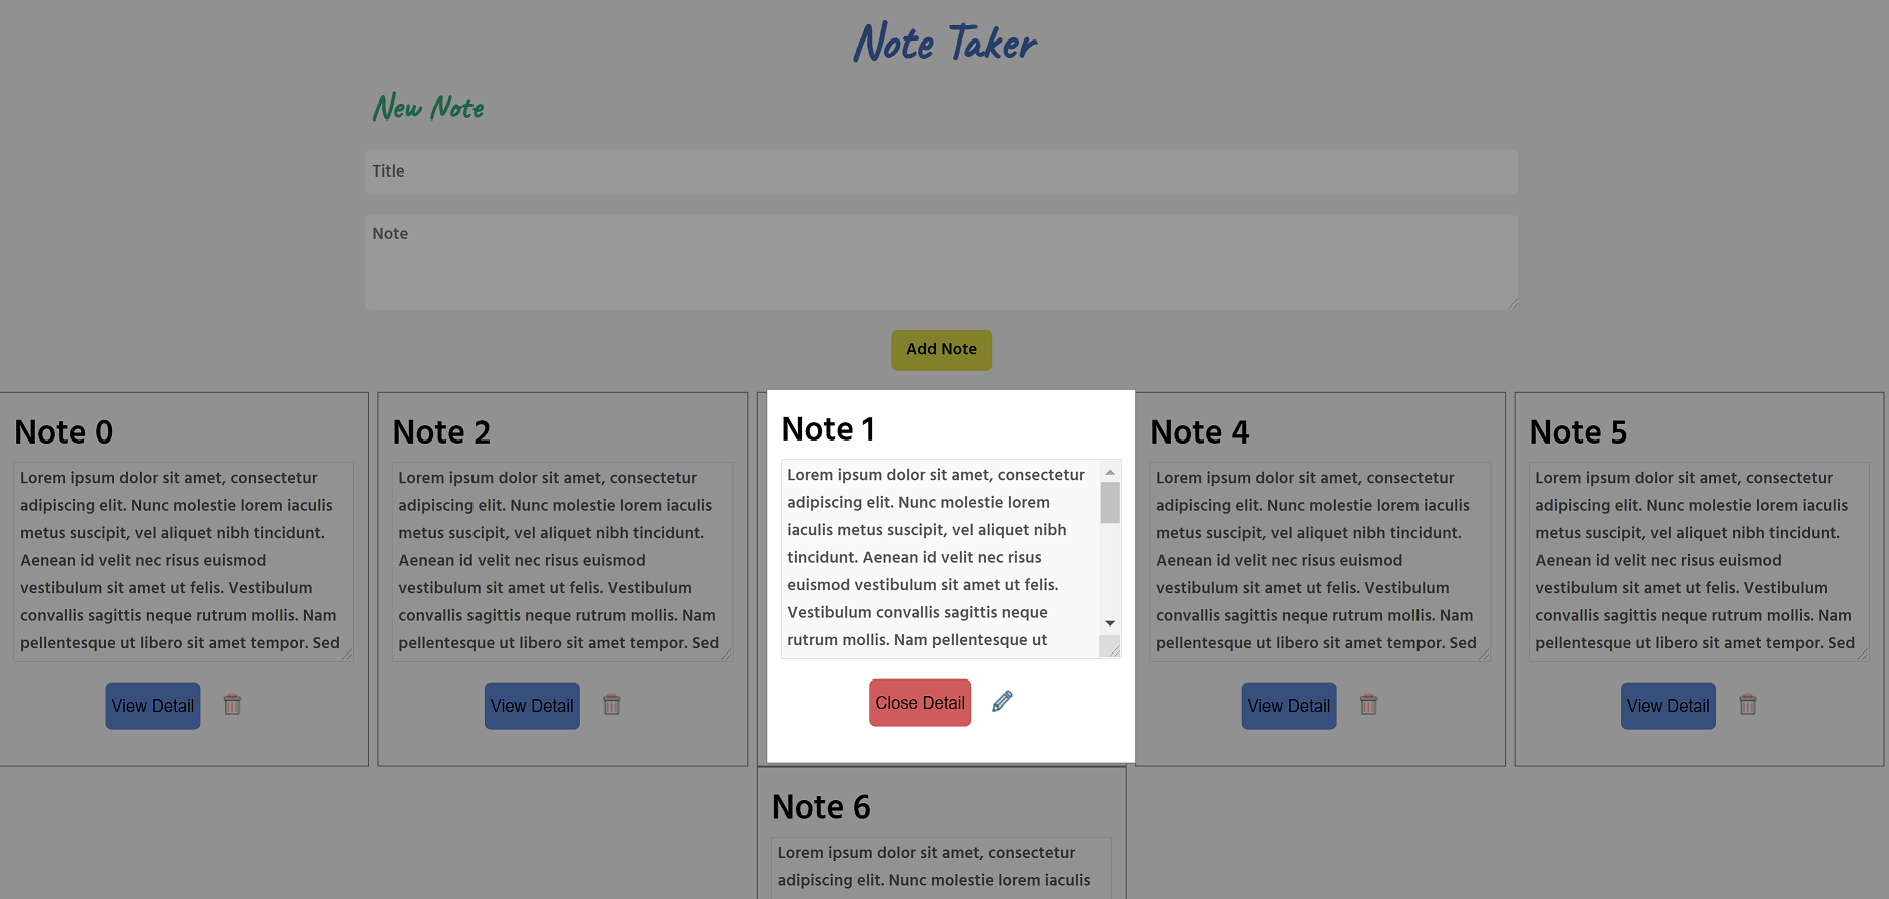
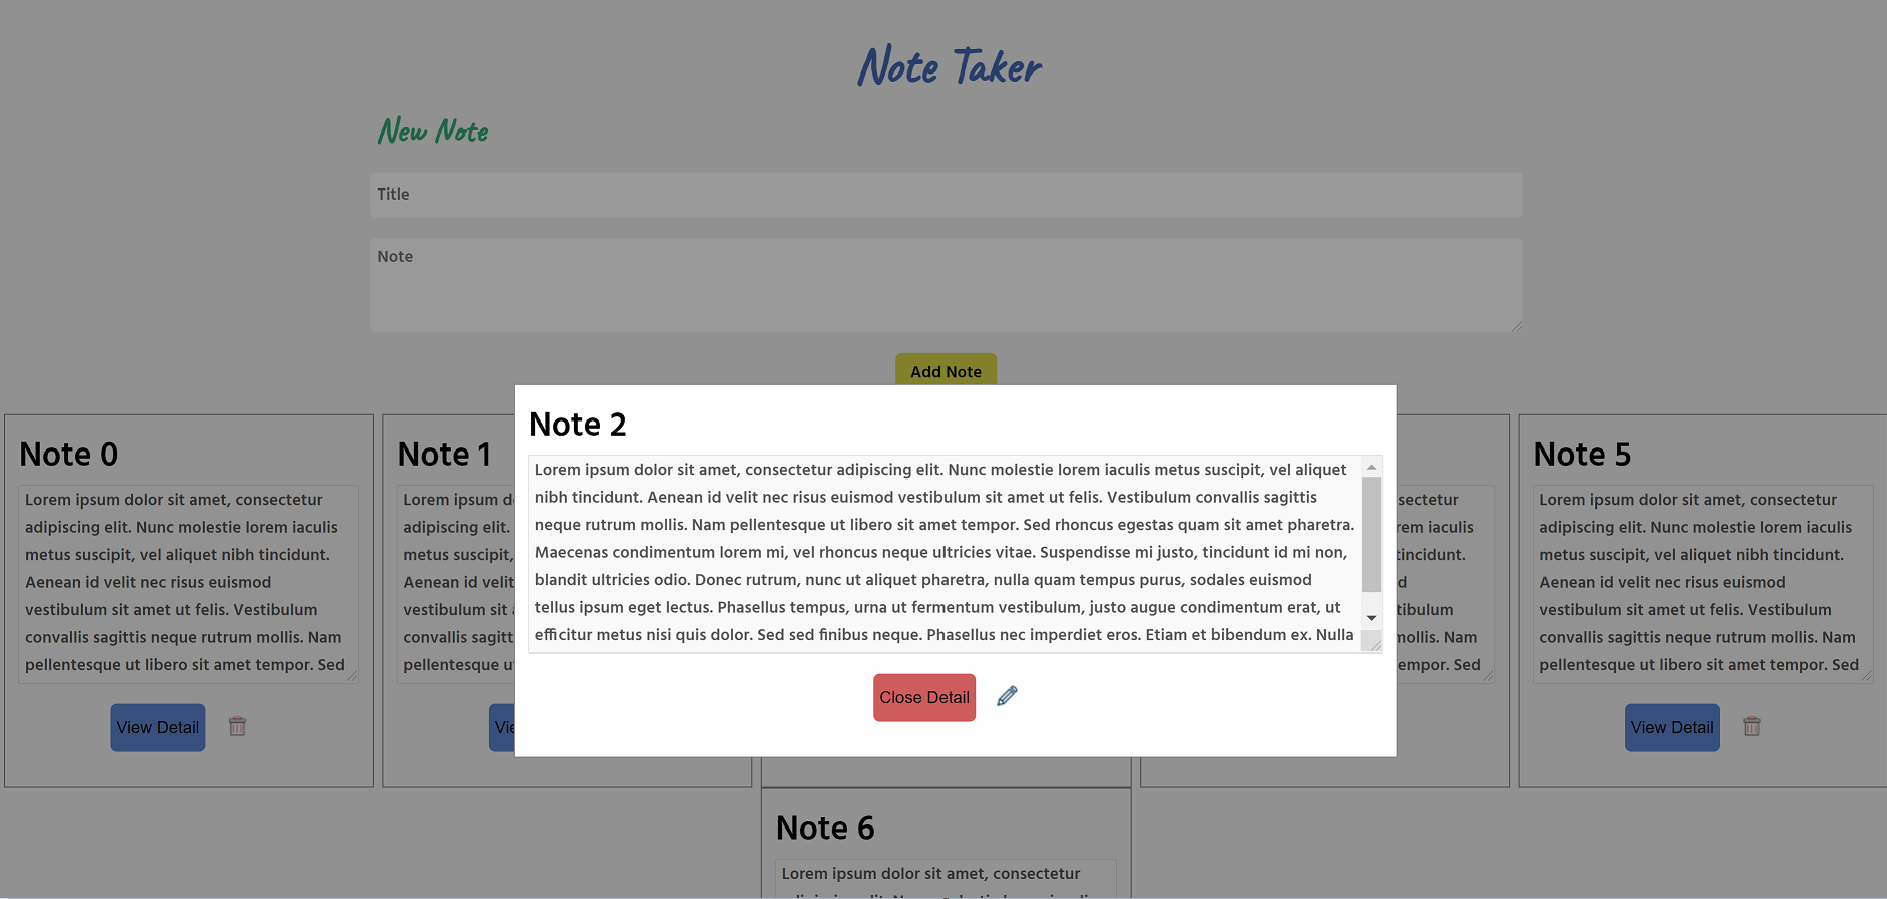
update js and css files

diff --git a/index.js b/index.js
@@ -28,8 +28,6 @@ class Note {
   constructor(title, note) {
     this.title = title;
     this.note = note;
-    console.log(title);
-    console.log(this.title);
   }
 
   createNote() {
@@ -75,7 +73,6 @@ class Note {
     span.innerHTML = this.title;
     ta.innerHTML = this.note;
 
-    console.log(this.title);
     div.appendChild(viewBtn);
     div.appendChild(editBtn);
     div.appendChild(deleteBtn);
@@ -98,9 +95,6 @@ class Note {
   viewDetail(viewBtn, editBtn, deleteBtn, ta) {
     let modal = viewBtn.parentNode.parentNode.parentNode;
     let modalDetail = viewBtn.parentNode.parentNode;
-    console.log(modal);
-
-    console.log(modalDetail);
 
     if (viewFlag === true) {
       modal.classList.toggle("modal");
@@ -131,9 +125,7 @@ class Note {
   edit(editBtn, editIcon, imgEditting, ta) {
     findIndex(ta);
 
-    console.log(noteStorage + " " + noteIndex);
     if (ta.disabled) {
-      console.log(ta.value);
       ta.disabled = !ta.disabled;
 
       editBtn.removeChild(editIcon);

diff --git a/css/style.css b/css/style.css
@@ -157,19 +157,25 @@ h3 {
   margin: auto;
   padding: 20px;
   border: 1px solid #888;
-  width: 45vw;
+  width: 46vw !important;
 }
 
 .inner-textarea {
-  /* width: 508.5px !important; */
   overflow: auto !important;
 }
 
-@media only screen and (max-width: 398px) {
+@media only screen and (max-width: 596px) {
   #modal {
     width: 98vw;
   }
   #inner-textarea {
     width: none;
+  }
+  .display {
+    background-color: #fefefe;
+    margin: auto;
+    padding: 20px;
+    border: 1px solid #888;
+    width: 94vw !important;
   }
 }
